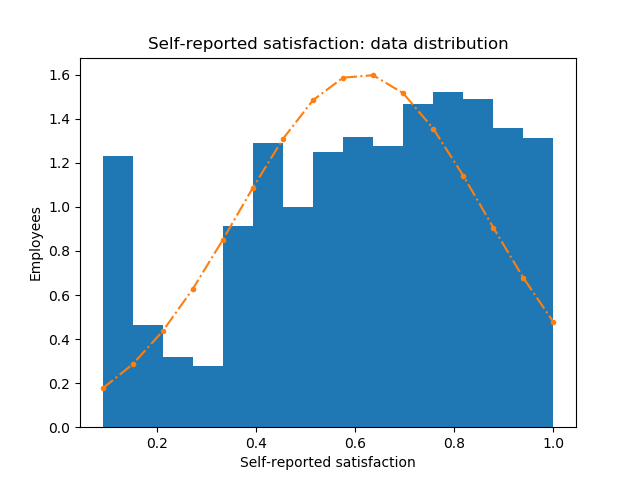
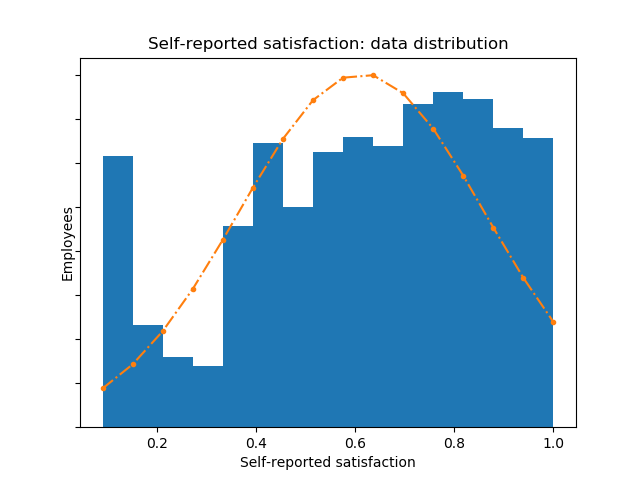
Fixed minor labels issue

diff --git a/hr.py b/hr.py
@@ -75,8 +75,10 @@ def draw_distribution(hr, var, var_pretty_print):
 	axes.plot(bins, y, '.-.')
 	axes.set_xlabel(str(var_pretty_print))
 	axes.set_ylabel('Employees')
+	axes.tick_params(labelleft='off')
 	axes.set_title(r'Distribution: $\mu$ =' + format(var_val_std, '.4f') + ', $\sigma$ =' + format(var_val_mean, '.4f'))
 	pp.title(str(var_pretty_print) + ': data distribution')
+
 
 
 def draw_discrete_distribution(hr, var, var_pretty_print, suffix):
@@ -101,6 +103,10 @@ def draw_discrete_distribution(hr, var, var_pretty_print, suffix):
 	axes.set_xticks(x_values)
 	axes.set_ylabel('Employees')
 	axes.set_title(str(var_pretty_print) + " " + str(suffix))
+
+	pp.tight_layout()
+
+
 
 
 def draw_categorical_distribution(hr, var, var_pretty_print, categories):
@@ -133,6 +139,9 @@ def draw_categorical_distribution(hr, var, var_pretty_print, categories):
 	axes.set_title(str(var_pretty_print))
 	pp.setp(axes.get_xticklabels(), rotation=45)
 
+	pp.tight_layout()
+
+
 
 def draw_correlation_matrix(correlation_matrix):
 	figure, axes = pp.subplots(1,1)
@@ -154,8 +163,10 @@ def draw_correlation_matrix(correlation_matrix):
 	# Hide borders
 	axes.spines['top'].set_visible(False)
 	axes.spines['right'].set_visible(False)
-
 	pp.draw()
+
+	pp.tight_layout()
+
 
 
 # Main
